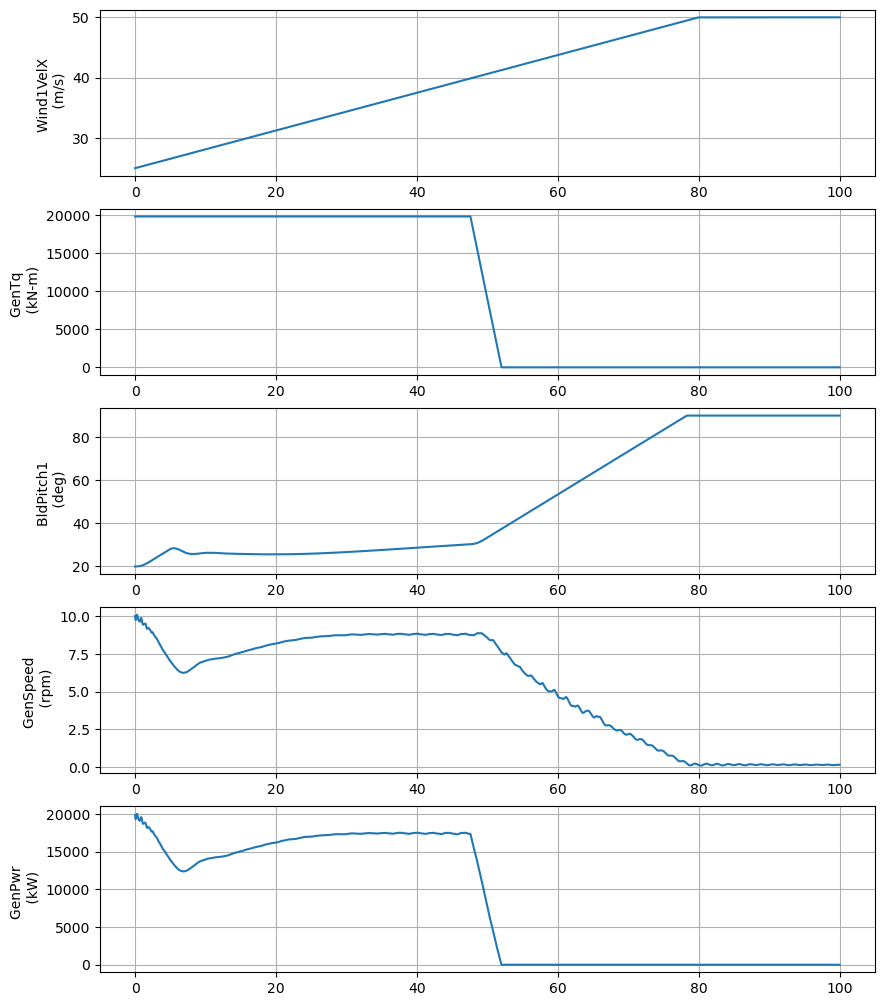
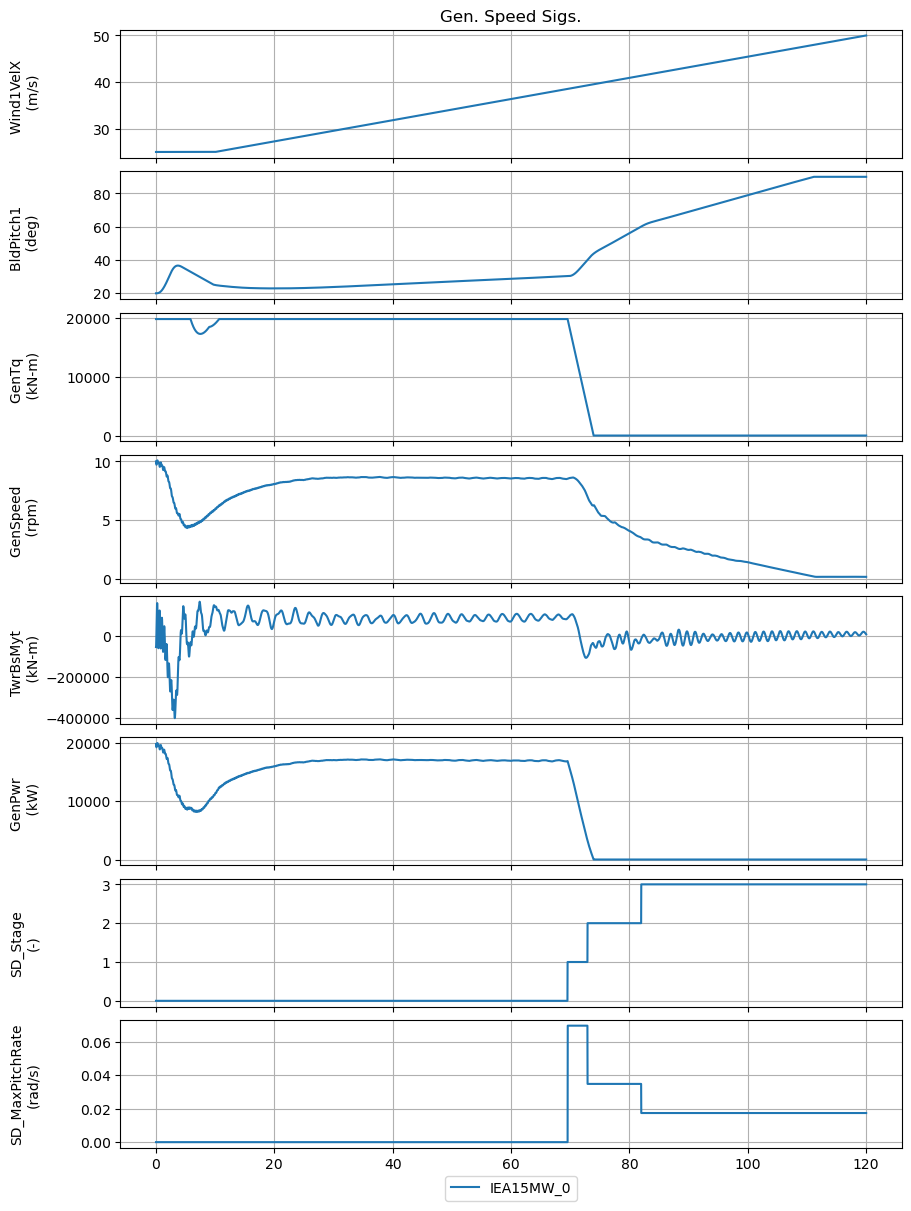
Update shutdown example

Changed region(s): [[0.0, 0.0, 1.0, 1.0], [0.7636, 0.6471, 0.8247, 0.6779], [0.0, 0.7396, 0.0305, 0.8012]]

diff --git a/Examples/30_shutdown.py b/Examples/30_shutdown.py
@@ -77,8 +77,8 @@ def main():
     controller_params["DISCON"]["SD_Method"] = 2
     controller_params["DISCON"]["SD_Stage_N"] = 3
     controller_params["DISCON"]["SD_StageTime"] = [10, 1000]    
-    controller_params["DISCON"]["SD_StagePitch"] = [np.radians(10), np.radians(20), np.radians(40)]  # Time in seconds for each stage
-    controller_params["DISCON"]["SD_MaxPitchRate"] = [0.0348/1.5, 0.0348, 2*0.0348]
+    controller_params["DISCON"]["SD_StagePitch"] = [np.radians(40), np.radians(60), np.radians(90)]  # Time in seconds for each stage
+    controller_params["DISCON"]["SD_MaxPitchRate"] = [2*0.0348, 0.0348, 0.0348/2]
     controller_params["DISCON"]["SD_MaxTorqueRate"] = [4500000, 4500000, 4500000]
     controller_params["DISCON"]["PC_MaxRat"] = 4*0.0348
 
@@ -96,7 +96,6 @@ def main():
     r.case_inputs[("ElastoDyn", "PtfmYDOF")] = {"vals": ["False"], "group": 0}
 
 
-    t_max = 90
 
     run_dir = os.path.join(example_out_dir, "30_shutdown_demo/4_set_pitch_bps")
 
@@ -106,7 +105,7 @@ def main():
         "U_start": 25,
         "U_end": 50,
         "t_start": 10,
-        "t_end": t_max,
+        "t_end": 120,
     }
     r.case_inputs[("ElastoDyn", "BlPitch1")] = {"vals": [20.0], "group": 0}
     r.case_inputs[("ElastoDyn", "BlPitch2")] = {"vals": [20.0], "group": 0}
